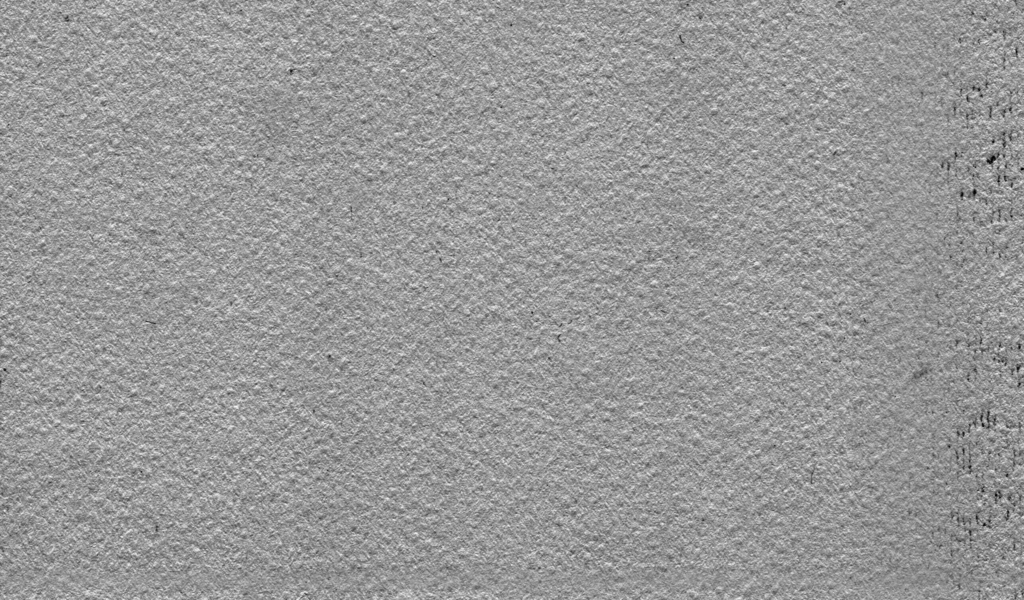
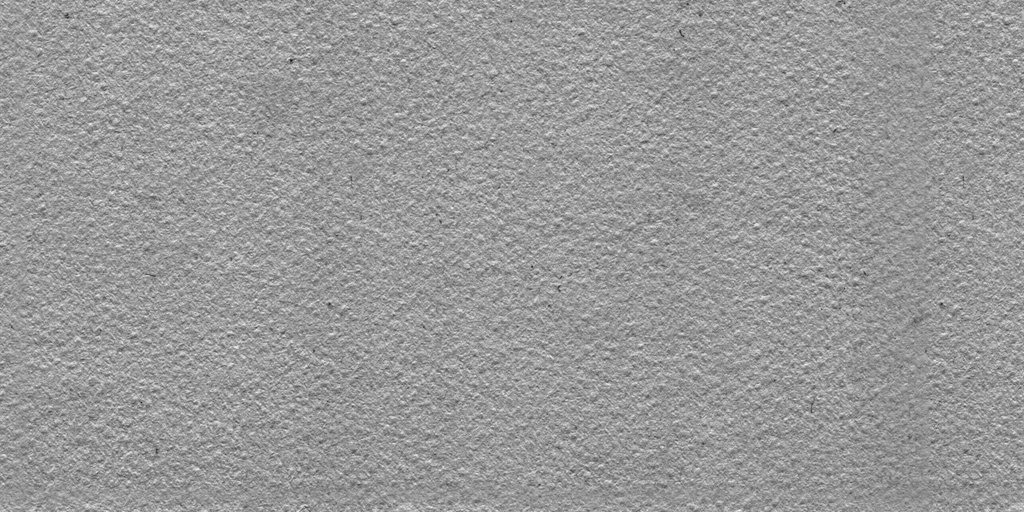
feat(context): surface material evolution; scans keep their proportions
- Evolution : a new surface-material slider that keeps the surface from
  sitting still, like a little wind on the projector or the camera : the
  material sways a few pixels in slow irregular gusts, turns and breathes very
  slightly, the viewpoint and raking light move with it. 0 = still, as before.
- The seven non-square scans (bricks, concrete, corrugated steel, painted
  plaster, rock face, wood grain, paper crumpled) were squeezed into square
  tiles, about twice their height; Context and the Scan source now tile them
  at their real proportions (IMG_SIZE of the height map).
- Paper crumpled : a streak of dark pits in the scan repeated as vertical
  lines; patched from clean paper in the same scan and resampled to 1024x512.
- 'rock rough' is 'stacked stone' (it is layered stone blocks); Context's
  'surface' section is 'surface material' (the Metasurface owns 'surface').

Changed region(s): [[0.9062, 0.0, 1.0, 1.0], [0.0, 0.0, 0.0312, 1.0]]

diff --git a/src/renderer/src/shaders/isf/inputHints.ts b/src/renderer/src/shaders/isf/inputHints.ts
@@ -965,6 +965,7 @@ export const INPUT_HINTS: Record<string, Record<string, string>> = {
     pbrAmount: 'RELIEF : how deep the material is. It sets how far the image sinks into crevices and rides over bumps, and how much the surface relights it. 0 = flat passthrough.',
     pbrLight: 'RAKING : how hard the light grazes the material, independent of relief depth. Low = soft, even, front-lit. High = a low grazing light that throws long, near-black cast shadows in the crevices and hot specular sheen on the ridges (deep chiaroscuro contrast). Turn this up when the relief looks too flat.',
     pbrScale: 'Tiling scale of the PBR material : how many times it repeats across the frame.',
+    pbrEvolve: 'EVOLUTION : keeps the surface from sitting perfectly still, as if a little wind moved the projector or the camera filming it. The material drifts a touch under the image in a slow, irregular sway with light gusts, turns and breathes very slightly, and the raking light shifts with it. 0 = perfectly still.',
     pbrDepth: 'FIELD DEPTH : viewing distance. 0 = pressed against your eye (dense parallax, raking contrast). Up = you step back : the material tiles finer, the relief flattens, the light reads softer and more ambient, and the surface settles toward the atmosphere color.'
   },
   'fx-finalizer': {

diff --git a/src/renderer/src/components/FinishingSections.tsx b/src/renderer/src/components/FinishingSections.tsx
@@ -206,11 +206,12 @@ export const FINISHING_SECTIONS: Record<string, FinishingSection[]> = {
     },
     {
       id: 'surface',
-      title: 'surface',
+      // "surface material" : plain "surface" also names the Metasurface.
+      title: 'surface material',
       color: C.earth,
       switchInput: 'pbrTexture',
       offValue: 0,
-      inputs: ['pbrAmount', 'pbrLight', 'pbrScale', 'pbrDepth'],
+      inputs: ['pbrAmount', 'pbrLight', 'pbrScale', 'pbrDepth', 'pbrEvolve'],
       labels: { pbrScale: 'texture scale' }
     }
   ],

diff --git a/src/renderer/src/engine/pbrTextures.ts b/src/renderer/src/engine/pbrTextures.ts
@@ -32,7 +32,7 @@ export const PBR_MATERIALS: PbrMaterial[] = [
   { id: 'Ground054', name: 'sand dunes' },
   { id: 'Ground080', name: 'sand ripples' },
   { id: 'Rock063', name: 'rock face' },
-  { id: 'Rock064', name: 'rock rough' },
+  { id: 'Rock064', name: 'stacked stone' }, // layered stone blocks (was 'rock rough')
   { id: 'Fabric030', name: 'fabric weave' },
   { id: 'Fabric061', name: 'fabric knit' },
   { id: 'Carpet016', name: 'carpet' },

diff --git a/README.md b/README.md
@@ -1320,7 +1320,7 @@ none is picked, so all five run in any rack.
 | Stage | Description |
 |---|---|
 | **Vibe Palette** | The always-on colour-**mastering** stage: an **opacity** dry/wet on top, auto-levels (temporally smoothed min/max), gamma tone placement, palette map, source mix-back, contrast, saturation, and split-tone. Decides the whole output's look; survives every global Randomize. Ships 56 palettes. |
-| **Context** | The always-on **depth** finalizer: temporal trails, a soft key light with volumetric bloom, atmospheric haze, spatial blur, a depth vignette, a **void / edge-dissolve** (the frame's edges eaten toward black), and PBR texture mapping (project the composition onto a material). Every parameter at zero is a clean passthrough. |
+| **Context** | The always-on **depth** finalizer: temporal trails, a soft key light with volumetric bloom, atmospheric haze, spatial blur, a depth vignette, a **void / edge-dissolve** (the frame's edges eaten toward black), and a **surface material** (project the composition onto one of 30 scanned materials; **evolution** keeps it from sitting still, as if a little wind moved the projector or the camera). Every parameter at zero is a clean passthrough. |
 | **Finalizer** | The last always-on stage: a final grade (input black/white + gamma + per-channel R/G/B gain), sharpen, and physically-modelled grain over everything, plus an **output shaper** (clip the frame to any of ~21 silhouettes with a drop-shadow, filled by a colour or the Background), the **anaglyph 3D stage** (`stereo`: off / red-cyan / grayscale, with depth, convergence and invert : this is where the shaders described as "at home under anaglyph" get their glasses), the **Cameraless film hold** (a hand-made-film pass: draw-clock hold + boil / flutter, granulation and splice), and **film damage**, modelled on real prints and working with or without the hold : **dust** that changes every film frame (24 fps, Super 8 18; mostly tiny specks, rarely a big mottled clump, dark on the print or white sparkle from the negative, the odd fibre), **scratches** that run along the strip (they last, wander slowly, break up, dark / white / emulsion-coloured, sometimes in tramlines), a **gate hair**, the **film gauge** (35 mm / 16 mm / Super 8 scales it all) and **dirt on** (print / mixed / negative). Sizes are in fractions of the frame, so a 1080p render and an 8K dome master look the same. All of it ships **off on a fresh or New session** and is switched on by the direct-film Worlds (Griffé · Peint · Pressé) or by hand, so a blank slate never opens with specks over the picture. Neutral at defaults. |
 
 `toggleFinishing` bypasses/enables the three as one bank; they are excluded from

diff --git a/CHANGELOG.md b/CHANGELOG.md
@@ -7,6 +7,13 @@ that CI builds into cross-platform releases.
 
 ### Added
 
+- **Context : surface material evolution.** A new **evolution** slider in the surface
+  material (Finishing > Context) keeps the surface from sitting perfectly still, as if a
+  little wind moved the projector or the camera filming it : the material drifts a few
+  pixels under the image in a slow, irregular sway with light gusts, turns and breathes
+  very slightly, and the raking light shifts with it. 0 (the default) is perfectly
+  still, so existing sessions look the same.
+
 - **Click a modulation chip to turn it off** (and again to turn it back on) : the
   assignment stays with its depth, its parameter sits at its own value meanwhile.
 - **Video : stop, scrub and browse.** A **■ stop** button (pause and back to the in
@@ -249,6 +256,14 @@ that CI builds into cross-platform releases.
 
 ### Changed
 
+- **Context's "surface" section is now "surface material"** (plain "surface" also named
+  the Metasurface). The material once called **rock rough** is now **stacked stone**,
+  which is what it is (layered stone blocks); sessions keep it.
+- **Flash safety holds softly** : a held region now fades out over most of a cell
+  instead of a quarter of one, so it reads as a soft patch rather than a 6x6 grid of
+  blocks (dragging a slider fast, e.g. texture scale, used to show the grid). The held
+  cells are limited exactly as before; their neighbours a little more.
+
 - **Context shows what the picture actually gets** : Proximity (toward far), Coalesce
   (toward mass), Flow, Gesture⇄Texture and the sequencer's Breathe / Arc add blur,
   haze, trails or depth ON TOP of Context's sliders, so every slider at 0 could still
@@ -375,6 +390,13 @@ that CI builds into cross-platform releases.
   the shared page `<title>`; it now holds.)
 
 ### Fixed
+
+- **Surface materials keep their proportions** : seven of the 30 scans are not square
+  (bricks, concrete, corrugated steel, painted plaster, rock face, wood grain, paper
+  crumpled) and were squeezed into square tiles, stretched to about twice their height,
+  in Context's surface material and in the Scan source alike. They now tile at their
+  real proportions. **Paper crumpled** also lost a streak of dark pits in its scan that
+  repeated across the frame as vertical lines, and now tiles cleanly.
 
 - **Video above 8x froze on real footage** : each frame was an exact seek, which on an
   ordinary (long-GOP) clip decodes from the previous keyframe : 0.5-3 s per seek on
